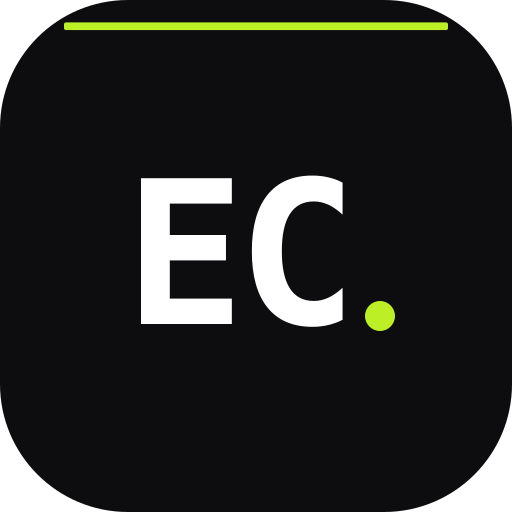
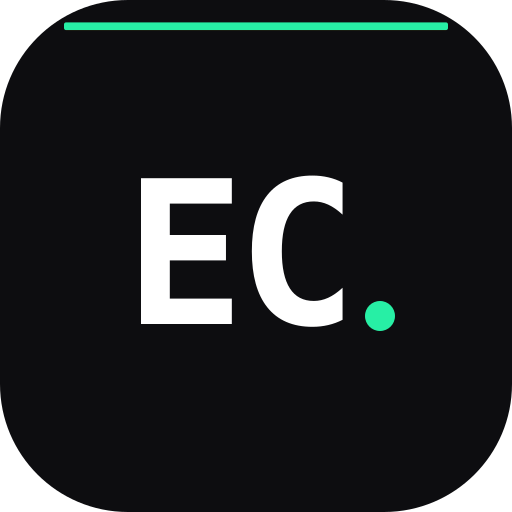
style: restyling dark teal + esmeralda (estilo app fitness pro) — tokens, brand assets y theme colors

Changed region(s): [[0.125, 0.0312, 0.875, 0.0625], [0.6875, 0.5625, 0.7812, 0.6562]]

diff --git a/src/app/globals.css b/src/app/globals.css
@@ -2,31 +2,32 @@
 
 /*
  * EZEQUIEL COACHING — sistema visual
- * Fondo casi-negro #0b0b0e / acento volt #bdef27 (oklch 0.885 0.211 124).
+ * Estilo "app fitness pro" (referencia FitSync): superficies dark teal
+ * profundas + acento esmeralda/mint (oklch 0.84 0.17 162 ≈ #3ddc97).
  * Tema oscuro por diseño (marca fitness premium). Sin azul/índigo.
  */
 
 :root {
-  --background: oklch(0.16 0.005 285);
-  --foreground: oklch(0.97 0.002 285);
-  --card: oklch(0.2 0.006 285);
-  --card-foreground: oklch(0.97 0.002 285);
-  --popover: oklch(0.22 0.006 285);
-  --popover-foreground: oklch(0.97 0.002 285);
-  --primary: oklch(0.885 0.211 124);
-  --primary-foreground: oklch(0.16 0.02 124);
-  --secondary: oklch(0.25 0.006 285);
-  --secondary-foreground: oklch(0.97 0.002 285);
-  --muted: oklch(0.24 0.006 285);
-  --muted-foreground: oklch(0.68 0.008 285);
-  --accent: oklch(0.26 0.008 285);
-  --accent-foreground: oklch(0.97 0.002 285);
+  --background: oklch(0.14 0.012 190);
+  --foreground: oklch(0.97 0.005 175);
+  --card: oklch(0.175 0.014 190);
+  --card-foreground: oklch(0.97 0.005 175);
+  --popover: oklch(0.19 0.014 190);
+  --popover-foreground: oklch(0.97 0.005 175);
+  --primary: oklch(0.84 0.17 162);
+  --primary-foreground: oklch(0.15 0.04 170);
+  --secondary: oklch(0.23 0.016 190);
+  --secondary-foreground: oklch(0.97 0.005 175);
+  --muted: oklch(0.22 0.016 190);
+  --muted-foreground: oklch(0.72 0.015 180);
+  --accent: oklch(0.24 0.018 185);
+  --accent-foreground: oklch(0.97 0.005 175);
   --destructive: oklch(0.62 0.21 25);
   --destructive-foreground: oklch(0.98 0.005 25);
-  --border: oklch(0.29 0.008 285);
-  --input: oklch(0.26 0.008 285);
-  --ring: oklch(0.885 0.211 124);
-  --radius: 0.625rem;
+  --border: oklch(0.3 0.016 190);
+  --input: oklch(0.26 0.016 190);
+  --ring: oklch(0.84 0.17 162);
+  --radius: 1rem;
 }
 
 @theme inline {
@@ -73,7 +74,7 @@ body {
 }
 
 ::selection {
-  background: oklch(0.885 0.211 124 / 0.3);
+  background: oklch(0.84 0.17 162 / 0.3);
 }
 
 /* Scrollbar fina y discreta */
@@ -85,22 +86,22 @@ body {
   background: transparent;
 }
 ::-webkit-scrollbar-thumb {
-  background: oklch(0.32 0.01 285);
+  background: oklch(0.32 0.016 190);
   border-radius: 8px;
   border: 2px solid var(--background);
 }
 ::-webkit-scrollbar-thumb:hover {
-  background: oklch(0.42 0.012 285);
+  background: oklch(0.42 0.02 185);
 }
 
 /* Utilidades de marca */
 .glow-volt {
-  box-shadow: 0 0 24px oklch(0.885 0.211 124 / 0.35);
+  box-shadow: 0 0 24px oklch(0.84 0.17 162 / 0.35);
 }
 
 .bg-brand-halo {
   background:
-    radial-gradient(600px 300px at 50% 0%, oklch(0.885 0.211 124 / 0.08), transparent 70%);
+    radial-gradient(600px 300px at 50% 0%, oklch(0.84 0.17 162 / 0.08), transparent 70%);
 }
 
 .text-balance {
@@ -109,7 +110,7 @@ body {
 
 /* Foco visible accesible */
 :focus-visible {
-  outline: 2px solid oklch(0.885 0.211 124 / 0.8);
+  outline: 2px solid oklch(0.84 0.17 162 / 0.8);
   outline-offset: 2px;
 }
 

diff --git a/src/app/manifest.ts b/src/app/manifest.ts
@@ -8,8 +8,8 @@ export default function manifest(): MetadataRoute.Manifest {
       "Entrenamiento online: planes, seguimiento, calculadoras y contador de calorías.",
     start_url: "/",
     display: "standalone",
-    background_color: "#0b0b0e",
-    theme_color: "#0b0b0e",
+    background_color: "#0b1315",
+    theme_color: "#0b1315",
     icons: [
       { src: "/brand/icon-192.png", sizes: "192x192", type: "image/png" },
       { src: "/brand/icon-512.png", sizes: "512x512", type: "image/png" },

diff --git a/public/sw.js b/public/sw.js
@@ -34,7 +34,7 @@ const OFFLINE_HTML = `<!doctype html>
     <style>
       body {
         font-family: system-ui, sans-serif;
-        background: #0b0b0e;
+        background: #0b1315;
         color: #e5e7eb;
         min-height: 100vh;
         margin: 0;

diff --git a/src/app/layout.tsx b/src/app/layout.tsx
@@ -29,7 +29,7 @@ export const metadata: Metadata = {
 };
 
 export const viewport: Viewport = {
-  themeColor: "#0b0b0e",
+  themeColor: "#0b1315",
   width: "device-width",
   initialScale: 1,
 };

diff --git a/worklog.md b/worklog.md
@@ -550,3 +550,31 @@ Stage Summary:
 - Repo GitHub sincronizado con TODO el trabajo (Tasks 24→27). Widget "Plan de hoy" (retención diaria), evolución de e1RM por ejercicio (gráfica accesible propia, sin dependencias nuevas), biblioteca de 200 ejercicios reales.
 - Estados del widget 100% verificados en browser real; endpoint trend 200/401/400 según contrato; E2E completo con datos reales sembrados y BD devuelta a 0.
 - PENDIENTE usuario: revocar el token ghp_...dzbo (sigue activo) y emitir uno nuevo si se van a seguir pusheando cambios.
+---
+Task ID: 28-restauracion
+Agent: main (Z.ai Code)
+Task: Recuperación del proyecto tras reset del sandbox + inicio de restyling "estilo FitSync" (dark teal + esmeralda)
+
+Work Log:
+- INCIDENTE: al comenzar Task 28 el workspace estaba restaurado a un snapshot viejo (HEAD en auto-commit 0883846): desaparecieron src/components/zona, src/app/api/zona, biblioteca-view, exercises.ts de 200, worklog de Tasks 25-27, imágenes de ejercicios; el remote origin fue eliminado de la config local y el dev server servía el código viejo (/api/products).
+- RECUPERACIÓN: backup de .env/Caddyfile/db a /tmp/backup-restore → git remote add origin → fetch → git reset --hard origin/main (a1eaef0, estado verificado de Task 27) → restauración de .env y Caddyfile → bun install (160 paquetes) → bunx prisma db push (16 tablas recreadas, 0 perfiles) → restart del dev server (el viejo quedó con estado mixto: 500 en / y /manifest.webmanifest) → verificación: HOME 200, exercise-trend 401 sin sesión, manifest 200.
+- Lección: el sandbox puede restaurar snapshots entre sesiones; el push a GitHub fue la red de seguridad — sin él se perdía todo.
+
+Stage Summary:
+- Proyecto restaurado 1:1 al estado a1eaef0 (Task 27 completa). BD vacía. Servidor sano.
+---
+Task ID: 28
+Agent: main (Z.ai Code)
+Task: Restyling completo al estilo "app fitness pro" (referencia FitSync del usuario): dark teal + esmeralda/mint
+
+Work Log:
+- DECISIÓN DE ALCANCE: el estilo FitSync (dark teal profundo + acento esmeralda + bordes sutiles + glows + radios suaves) se implementa a nivel de TOKENS, no tocando componente por componente — toda la app usa clases semánticas (bg-background, text-primary, stroke-primary...), así que un swap de paleta en globals.css recolorea las 35+ vistas sin riesgo funcional.
+- FASE 1 (globals.css): --background oklch(0.14 0.012 190) teal oscuro; superficies/card/popover/border/input con tinte teal (hue 190); --primary esmeralda mint oklch(0.84 0.17 162) ≈ #3ddc97 con foreground verde-negro; selection/focus/scrollbar/glow-volt/bg-brand-halo actualizados al mismo verde; --radius 0.625rem → 1rem (look más suave y redondeado, tipo mockup FitSync).
+- Colores de sistema: themeColor (layout.tsx), background/theme_color (manifest.ts) y fondo de la página offline (sw.js) → #0b1315.
+- FASE 2 (assets de marca): recolor programático con PIL (hue-shift +83°, solo píxeles con saturación>0.25) en og.png, icon-512, icon-512-rounded, icon-192, apple-touch-icon, logo-mark — el stripe/texto/punto volt pasaron a esmeralda conservando el diseño píxel a píxel (verificado visualmente). logo-full.png (blanco puro) y las 7 imágenes de ejercicios (ya eran verde esmeralda) intactas. Falsas alarmas descartadas: /brand/* sirve 200; los 404 de /og.png e /icon-512.png venían del manifest viejo cacheado por el navegador de pruebas.
+- Smoke E2E post-restyle: registro en Mi Zona (detectado: click con ref stale no dispara; click por eval funciona) → zona con 5 tabs + widget "Plan de hoy" empty state OK → calculadora IMC: 78kg/178cm → "24,6" exacto → biblioteca OK → 320px sw==cw==320 en home/mi-zona/calculadoras → agent-browser errors vacío. Captura fullpage "vacía" diagnosticada: los Reveal animan on-scroll (no disparan en captura fullpage); scrolleando de verdad las secciones renderizan completas (evidencia /tmp/restyle-mid.png).
+- Limpieza: perfil de prueba borrado → 9 tablas en 0. lint 0/0 · tsc 0 · HOME 200.
+
+Stage Summary:
+- Toda la web (público + Mi Zona + herramientas) con el estilo profesional dark teal + esmeralda pedido (referencia FitSync), sin tocar lógica ni JSX: cambio a nivel tokens + assets de marca recoloreados in-place.
+- Sin datos de prueba (BD en 0). PENDIENTE: push a GitHub (token ghp_ sigue activo).
